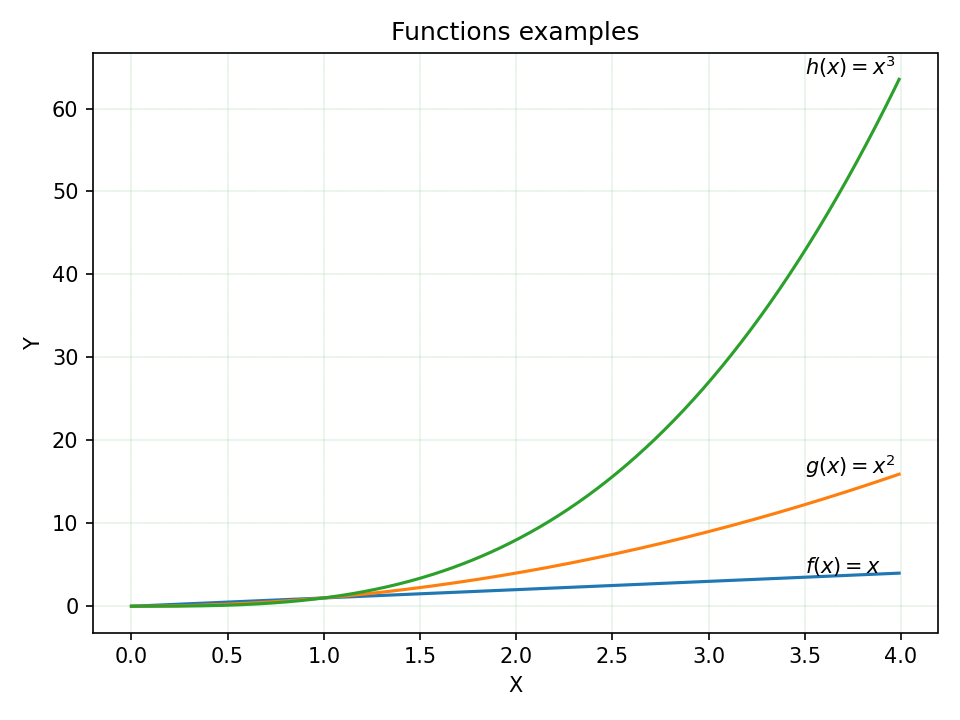
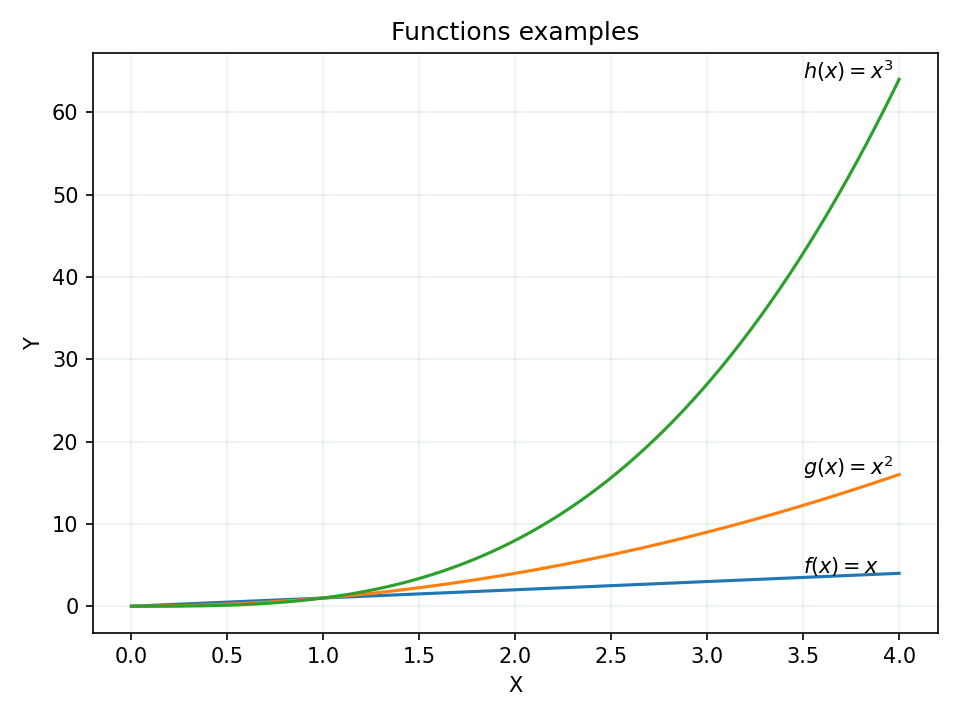
Numpy native functions linspace and square used in plottask.py

diff --git a/WK08/plottask.py b/WK08/plottask.py
@@ -9,10 +9,10 @@ import numpy as np
 import matplotlib.pyplot as plt
 
 # create points for the x axis. The X axis range will be 0-4,
-# but to make the plot smooth, creating 400 data points between 0 and 4 in equal 0.01 intervals
-xPoints = np.array(range(0, 400))/100
+# To make the plot smooth, creating 400 data points between 0 and 4 in equal 0.01 intervals
+xPoints = np.linspace(0,4,400)
 # calculating the data points for the square function 
-ySquares = xPoints*xPoints
+ySquares = np.square(xPoints)
 # calculating the data points for the cube function
 yCubes = ySquares*xPoints
 
